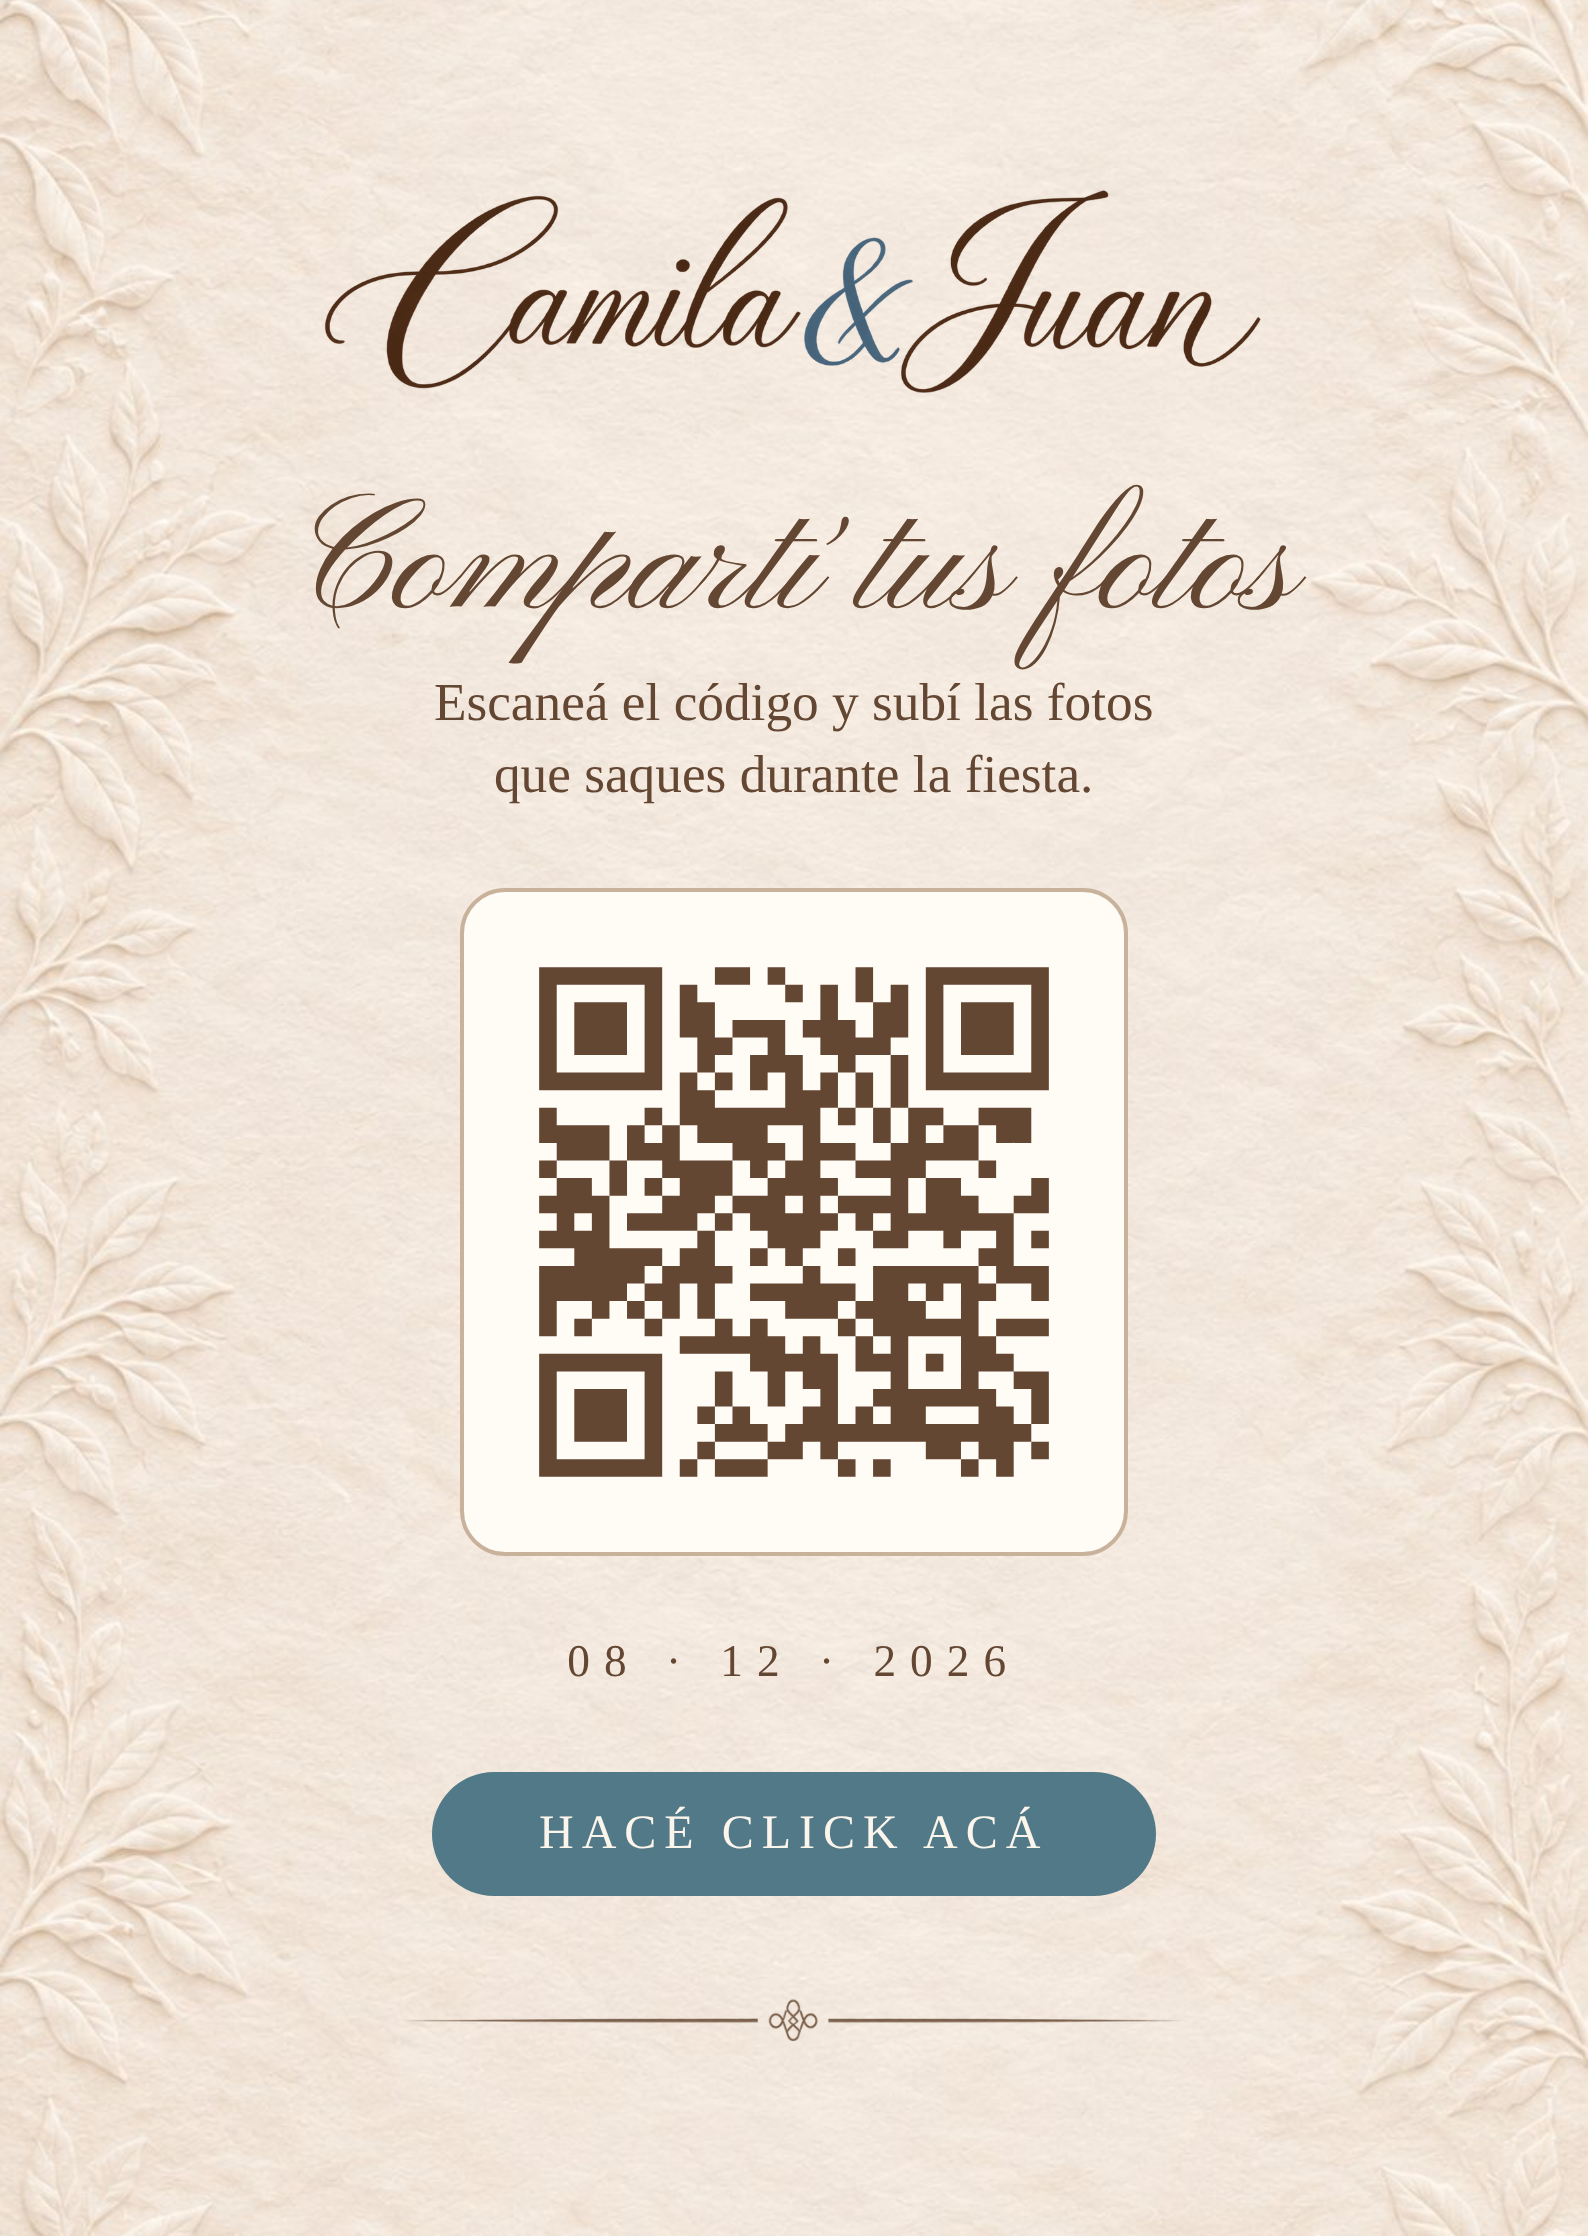
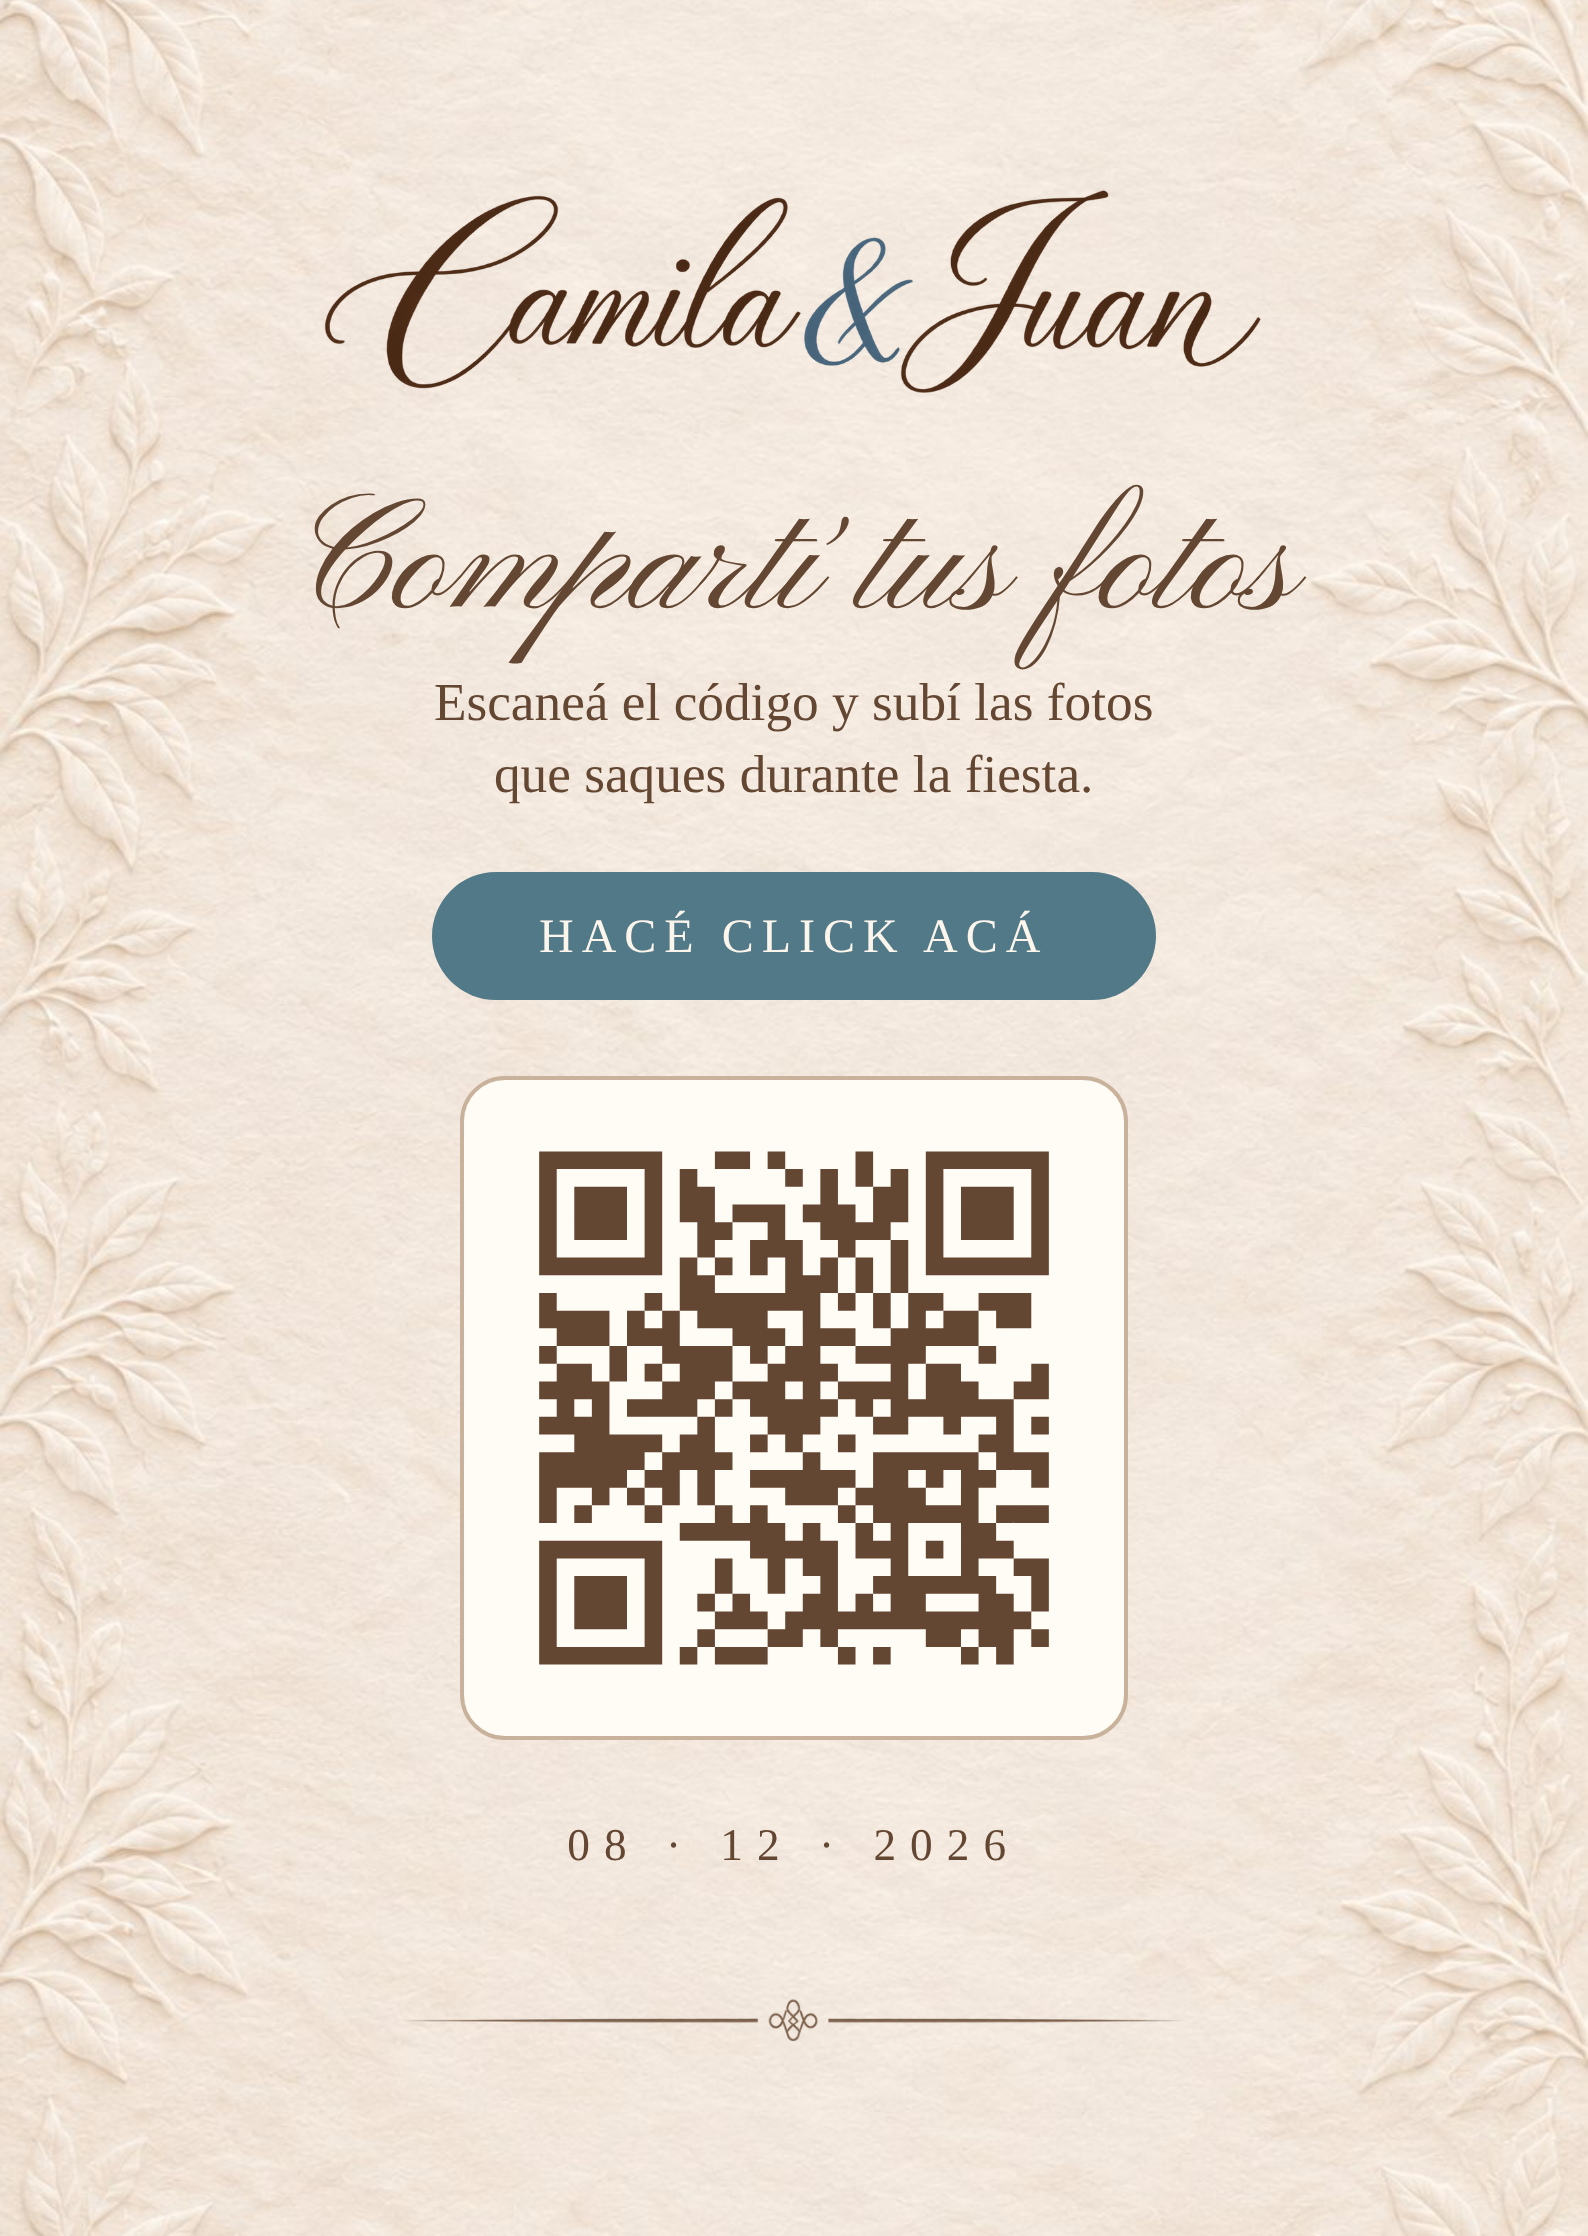
Tarjeta digital de fotos: botón arriba del QR
Claude-Session: https://claude.ai/code/session_01CPC8ckxxTpQ5o2jahJbfrt

Changed region(s): [[0.2469, 0.3703, 0.7406, 0.864]]

diff --git a/invitacion/tarjeta-fotos-digital.html b/invitacion/tarjeta-fotos-digital.html
@@ -19,16 +19,16 @@
   .qr{width:44mm;height:44mm;margin:5mm 0 4mm;padding:2.5mm;background:#fffbf5;border:.3mm solid #c9b29b;border-radius:3mm}
   .tag{color:#527987;letter-spacing:1px;font-size:10.5pt;margin-top:1.5mm}
   .line{width:52mm;margin:4mm 0 0}
-  .btn{display:inline-block;margin:3mm 0 1mm;padding:2.2mm 7mm;border-radius:20mm;background:#527987;color:#fbf5ec;text-decoration:none;font-size:9pt;letter-spacing:2px;text-transform:uppercase}
+  .btn{display:inline-block;margin:4mm 0 0;padding:2.2mm 7mm;border-radius:20mm;background:#527987;color:#fbf5ec;text-decoration:none;font-size:9pt;letter-spacing:2px;text-transform:uppercase}
 </style>
 </head>
 <body>
   <img class="names" src="assets/nombres.png" alt="Camila & Juan">
   <h1>Compartí tus fotos</h1>
   <p>Escaneá el código y subí las fotos<br>que saques durante la fiesta.</p>
+  <a class="btn" href="https://camiyjuan.com/invitacion/#fotos">Hacé click acá</a>
   <a href="https://camiyjuan.com/invitacion/#fotos"><img class="qr" src="assets/qr-fotos.svg" alt="QR para subir fotos"></a>
   <p class="eyebrow">08 · 12 · 2026</p>
-  <a class="btn" href="https://camiyjuan.com/invitacion/#fotos">Hacé click acá</a>
   <img class="line" src="assets/linea.png" alt="">
 </body>
 </html>
